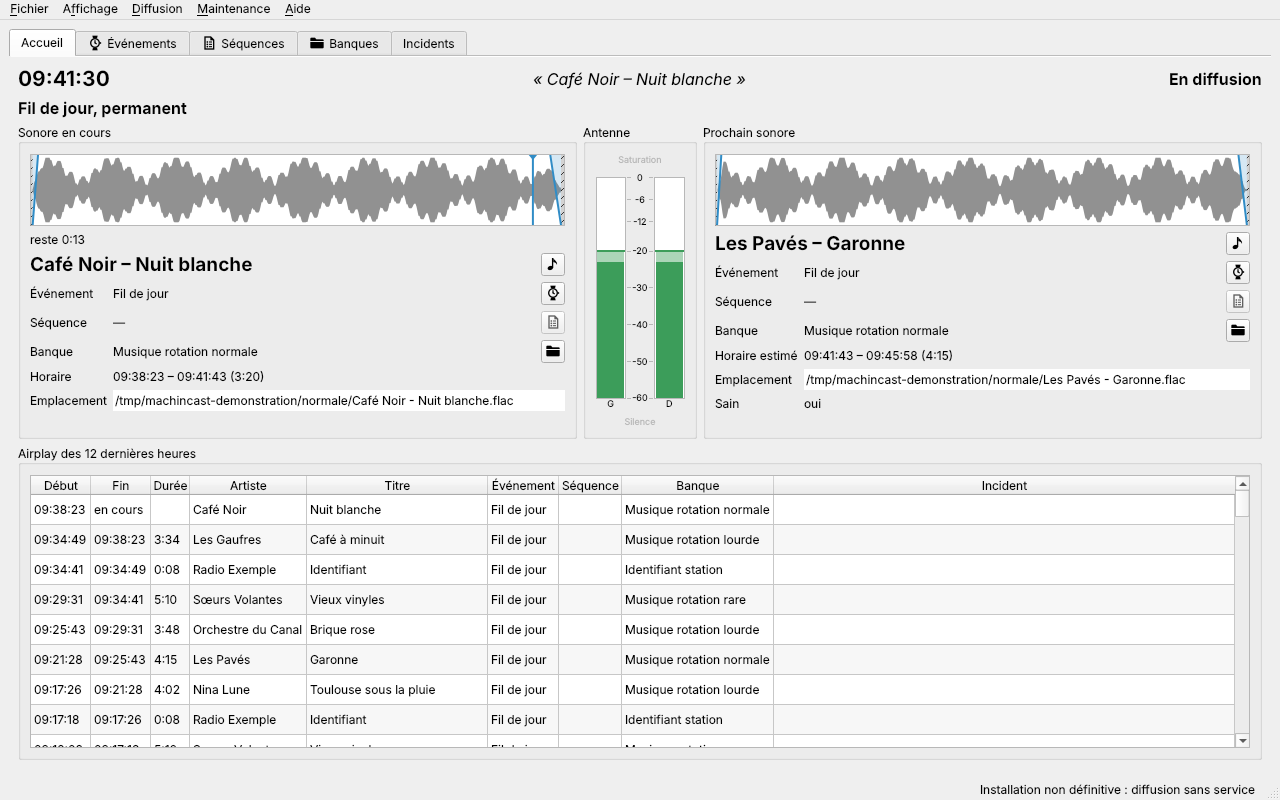
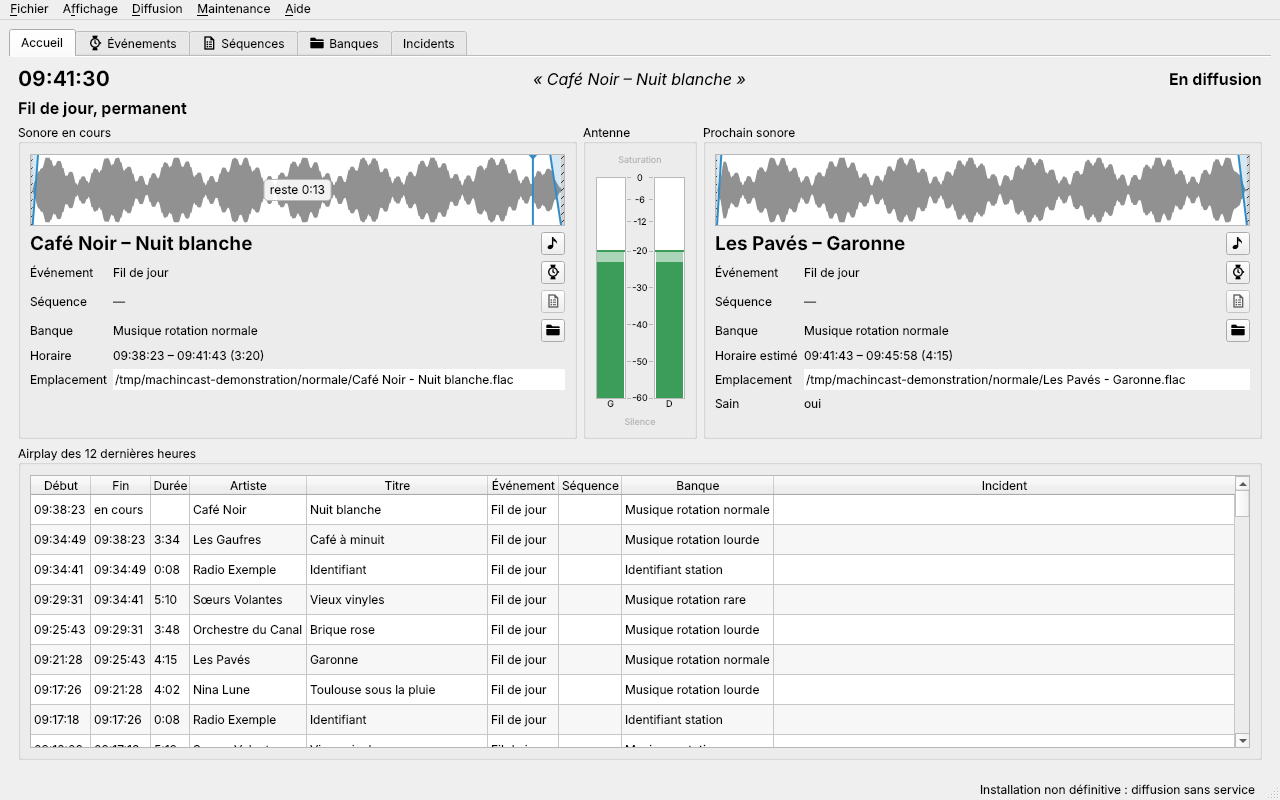
fix(interface): le temps qui reste au milieu de la frise du sonore en cours
https://github.com/dascritch/machincast/issues/230
Accueil : frise du sonore en cours et du sonore suivant, à la place de la barre de progression

Claude-Session: https://claude.ai/code/session_01KaPegkCQoT3k3oMgjXGsiv

Changed region(s): [[0.0312, 0.2812, 0.4062, 0.5312], [0.4062, 0.3125, 0.4375, 0.4688], [0.1875, 0.2188, 0.2812, 0.25]]

diff --git a/src/machincast/interface/frise.py b/src/machincast/interface/frise.py
@@ -58,6 +58,8 @@ PAS_SANS_DUREE = 0.05
 HAUTEUR = 72
 """Points de la frise en hauteur."""
 INDISPONIBLE = "Forme d'onde indisponible :"
+MARGE_DE_LA_LEGENDE = 6
+"""Points autour du texte de la légende, sur son fond."""
 Hachures = Literal["pleines", "pâles", "aucune"]
 
 
@@ -430,6 +432,9 @@ class Frise(QWidget):
 		self.forme: FormeDOnde | None = None
 		self.tete: float | None = None
 		"""La tête de lecture, en secondes du fichier ; None : pas de lecture."""
+		self.legende = ""
+		"""Un texte écrit au milieu de la frise, sur un fond qui le garde lisible : le temps qui reste au sonore en
+		cours, sur l'accueil (https://github.com/dascritch/machincast/issues/230) ; vide : aucun."""
 		self._glisse = False
 		self.setMinimumHeight(HAUTEUR)
 		self.setSizePolicy(QSizePolicy.Policy.Expanding, QSizePolicy.Policy.Fixed)
@@ -464,6 +469,21 @@ class Frise(QWidget):
 		if position != self.tete:
 			self.tete = position
 			self.update()
+
+	def montrer_la_legende(self, texte: str) -> None:
+		if texte != self.legende:
+			self.legende = texte
+			self.update()
+
+	def fond_de_la_legende(self) -> QRectF | None:
+		"""Le fond de la légende, centré sur la frise : le texte, avec une marge ; None sans légende."""
+		if self.legende == "":
+			return None
+		texte = self.fontMetrics().boundingRect(self.legende)
+		largeur = min(float(self.width() - 2), texte.width() + 2.0 * MARGE_DE_LA_LEGENDE)
+		hauteur = min(float(self.height() - 2), texte.height() + float(MARGE_DE_LA_LEGENDE))
+		centre = QRectF(self.rect()).center()
+		return QRectF(centre.x() - largeur / 2, centre.y() - hauteur / 2, largeur, hauteur)
 
 	def remarque(self) -> str:
 		"""Ce que la frise dit en clair : « Forme d'onde indisponible : … », ou rien."""
@@ -566,9 +586,22 @@ class Frise(QWidget):
 			self._dessiner_les_fondus(peintre, palette.color(groupe, QPalette.ColorRole.Highlight))
 		self._dessiner_la_tete(peintre, palette.color(groupe, QPalette.ColorRole.Highlight))
 		remarque = self.remarque()
+		fond = self.fond_de_la_legende()
 		if remarque != "":
+			# Sous la légende, s'il y en a une : la remarque prend le bas de la frise.
+			place = QRectF(cadre)
+			if fond is not None:
+				place.setTop(fond.bottom())
 			peintre.setPen(palette.color(groupe, QPalette.ColorRole.Text))
-			peintre.drawText(cadre, Qt.AlignmentFlag.AlignCenter | Qt.TextFlag.TextWordWrap, remarque)
+			peintre.drawText(place, Qt.AlignmentFlag.AlignCenter | Qt.TextFlag.TextWordWrap, remarque)
+		if fond is not None:
+			voile = QColor(palette.color(groupe, QPalette.ColorRole.Base))
+			voile.setAlpha(225)
+			peintre.setPen(QPen(palette.color(groupe, QPalette.ColorRole.Mid), 1))
+			peintre.setBrush(voile)
+			peintre.drawRoundedRect(fond, 4, 4)
+			peintre.setPen(palette.color(groupe, QPalette.ColorRole.Text))
+			peintre.drawText(fond, Qt.AlignmentFlag.AlignCenter, self.legende)
 		peintre.setPen(QPen(palette.color(groupe, QPalette.ColorRole.Mid), 1))
 		peintre.setBrush(Qt.BrushStyle.NoBrush)
 		peintre.drawRect(cadre)

diff --git a/tests/test_ecran_par_defaut.py b/tests/test_ecran_par_defaut.py
@@ -798,7 +798,7 @@ def progression(contexte: Contexte, qtbot: QtBot, bientot: str | None, texte: st
 	def montre() -> str:
 		if ouvert.ui.en_cours_progression.isVisibleTo(ouvert):
 			return ouvert.ui.en_cours_progression.text()
-		return ouvert.ui.en_cours_reste.text()
+		return ouvert.frise_en_cours.legende
 
 	if bientot:
 		attendre(qtbot, lambda: montre() == texte)
@@ -1158,11 +1158,15 @@ def frises_en_tete(contexte: Contexte, qtbot: QtBot) -> None:
 	assert _haut(contexte, prochain) + prochain.height() <= _haut(contexte, ouvert.ui.prochain_titre)
 
 
-@then("le temps qui reste au sonore en cours est entre sa frise et son titre")
-def reste_sous_la_frise(contexte: Contexte) -> None:
+@then("le temps qui reste au sonore en cours est écrit au milieu de sa frise, sans autre ligne sous elle")
+def reste_dans_la_frise(contexte: Contexte) -> None:
 	ouvert = ecran(contexte)
-	reste = _haut(contexte, ouvert.ui.en_cours_reste)
-	assert _haut(contexte, ouvert.frise_en_cours) < reste < _haut(contexte, ouvert.ui.en_cours_titre)
+	frise = ouvert.frise_en_cours
+	assert frise.legende.startswith("reste "), frise.legende
+	assert frise.fond_de_la_legende() is not None
+	assert not hasattr(ouvert.ui, "en_cours_reste")
+	espace = ouvert.ui.disposition_en_cours.spacing()
+	assert _haut(contexte, frise) + frise.height() + espace >= _haut(contexte, ouvert.ui.en_cours_titre) - 1
 
 
 @when("la colonne de l'antenne est plus haute qu'il ne lui faut")

diff --git a/tests/test_frise.py b/tests/test_frise.py
@@ -10,7 +10,7 @@ from datetime import timedelta
 from pathlib import Path
 
 import pytest
-from PySide6.QtCore import QPoint, Qt
+from PySide6.QtCore import QPoint, QRectF, Qt
 from PySide6.QtWidgets import QWidget
 from pytest_bdd import given, parsers, scenarios, then, when
 from pytestqt.qtbot import QtBot
@@ -337,3 +337,23 @@ def pareil(essai: Essai) -> None:
 	frise.setEnabled(False)
 	inactive = frise.grab().toImage()
 	assert active == inactive
+
+
+@when(parsers.parse("la frise a pour légende « {texte} »"))
+def legende(essai: Essai, texte: str) -> None:
+	essai.la_frise().montrer_la_legende(texte)
+
+
+@then("la légende de la frise est centrée, sur un fond qui l'entoure")
+def legende_centree(essai: Essai) -> None:
+	"""Calculée à part du dessin (https://github.com/dascritch/machincast/issues/230) : le fond, centré sur la frise,
+	contient le texte, et tient dans la frise."""
+	frise = essai.la_frise()
+	fond = frise.fond_de_la_legende()
+	assert fond is not None
+	centre = QRectF(frise.rect()).center()
+	assert abs(fond.center().x() - centre.x()) <= 1, (fond, centre)
+	assert abs(fond.center().y() - centre.y()) <= 1, (fond, centre)
+	texte = frise.fontMetrics().boundingRect(frise.legende)
+	assert (fond.width() > texte.width()) and (fond.height() > texte.height()), (fond, texte)
+	assert QRectF(frise.rect()).contains(fond), (fond, frise.rect())

diff --git a/src/machincast/interface/ecran_par_defaut.py b/src/machincast/interface/ecran_par_defaut.py
@@ -243,17 +243,20 @@ class EcranParDefaut(QWidget):
 
 	def _afficher_progression(self, sonore: SonoreAffiche | None) -> None:
 		"""Le temps qui reste au sonore en cours, plutôt qu'un pourcentage : sur la barre de progression d'un stream,
-		sous la frise d'un fichier, qui la remplace (https://github.com/dascritch/machincast/issues/230)."""
+		au milieu de la frise d'un fichier, qui la remplace (https://github.com/dascritch/machincast/issues/230)."""
 		texte, valeur = _avancement(sonore)
 		self.avancement_en_cours = valeur
 		fichier = (sonore is not None) and (not sonore.stream)
 		barre = self.ui.en_cours_progression
 		barre.setVisible(not fichier)
-		self.ui.en_cours_reste.setVisible(fichier)
 		barre.setValue(valeur)
 		# Texte composé ici : les codes de format de Qt s'écrivent avec la notation %, que refuse socle.feature.
 		barre.setFormat(texte)
-		self.ui.en_cours_reste.setText(texte)
+		# Pour un fichier, au milieu de sa frise ; vide pour un stream, qui garde sa barre.
+		legende = ""
+		if fichier:
+			legende = texte
+		self.frise_en_cours.montrer_la_legende(legende)
 		self._montrer_la_frise(self.frise_en_cours, sonore)
 
 	# ─── Frises (https://github.com/dascritch/machincast/issues/230) ───

diff --git a/src/machincast/interface/ui/ecran_par_defaut.py b/src/machincast/interface/ui/ecran_par_defaut.py
@@ -91,12 +91,6 @@ class Ui_EcranParDefaut(object):
 
         self.disposition_en_cours.addWidget(self.place_frise_en_cours)
 
-        self.en_cours_reste = QLabel(self.cadre_en_cours)
-        self.en_cours_reste.setObjectName(u"en_cours_reste")
-        self.en_cours_reste.setTextInteractionFlags(Qt.TextInteractionFlag.TextSelectableByMouse)
-
-        self.disposition_en_cours.addWidget(self.en_cours_reste)
-
         self.en_cours_progression = QProgressBar(self.cadre_en_cours)
         self.en_cours_progression.setObjectName(u"en_cours_progression")
         self.en_cours_progression.setMaximum(100)
@@ -473,7 +467,6 @@ class Ui_EcranParDefaut(object):
 #if QT_CONFIG(tooltip)
         self.place_frise_en_cours.setToolTip(QCoreApplication.translate("EcranParDefaut", u"Forme d'onde, blancs et fondus du sonore en cours, tels que la diffusion le joue", None))
 #endif // QT_CONFIG(tooltip)
-        self.en_cours_reste.setText(QCoreApplication.translate("EcranParDefaut", u"\u2014", None))
         self.en_cours_progression.setFormat(QCoreApplication.translate("EcranParDefaut", u"\u2014", None))
         self.en_cours_titre.setText(QCoreApplication.translate("EcranParDefaut", u"\u2014", None))
 #if QT_CONFIG(tooltip)

diff --git a/doc/spec.md b/doc/spec.md
@@ -577,8 +577,8 @@ Mise en œuvre ([#23](https://github.com/dascritch/machincast/issues/23), `machi
 - **État, sonore en cours et prochain sonore** : de la socket d'état ([§ 5.4](#54-socket-détat)), par `machincast.interface.etat.ClientEtat`, un `QLocalSocket` dans la boucle d'événements de Qt. Sans socket, ou quand elle se ferme, le binaire lecture est « À l'arrêt » et le client retente la connexion chaque seconde. Un message illisible est signalé sur la sortie d'erreur et ignoré.
 - **Airplay** : lu en base avec le rôle de l'interface (`machincast.interface.airplay.lire_airplay`), à l'ouverture, puis seulement quand la socket annonce un autre sonore en cours (ou aucun) que celui que la table connaît. Jamais en boucle. Artiste et titre toujours affichés : l'interface est privée.
 - **Inconnus** : un stream a sa durée, sa fin et sa progression « inconnue », et son indicateur « sain » « non testé ». Le début estimé du prochain sonore après un stream est « inconnu ».
-- **Disposition** ([#144](https://github.com/dascritch/machincast/issues/144)) : en haut, l'heure seule, à la seconde, la date du jour en infobulle (demandé avec [#191](https://github.com/dascritch/machincast/issues/191)), le texte public du sonore en cours entre guillemets (champ `texte_public` de la socket, `—` sans texte) et l'état ; puis l'événement à l'antenne et ses heures (« de 20:00 à 22:00 », « depuis 19:00 » sans fin, « permanent » pour un fil musical). Le bandeau ne montre que ces valeurs, sans intitulé : l'infobulle de l'état dit « État de Machin lecture », celle de l'événement « Événement à l'antenne » ([#191](https://github.com/dascritch/machincast/issues/191)). Chaque sonore a, une ligne par information, son événement, sa séquence, sa banque (`—` sans), son horaire sur une ligne (« 20:00:00 – 20:03:34 (3:34) », « 20:00:00, durée inconnue » pour un stream) et son emplacement. Le temps qui reste au sonore en cours, sans intitulé, à la seconde entamée : « reste 3:05 », sur la barre de progression d'un stream, sous la frise d'un fichier.
-- **Frises** ([#230](https://github.com/dascritch/machincast/issues/230), `EcranParDefaut._montrer_la_frise`) : un fichier, en cours ou prochain, a la frise de la pré-écoute ([§ 8.3](#83-écran-de-détails-dun-sonore), `machincast.interface.frise`), non interactive (`Frise(interactive=False)`) : aucun clic, glissement ni touche n'y demande de position, et elle ne prend pas le focus. Elle remplace la barre de progression du sonore en cours ; un stream la garde, et n'a pas de frise. Frise, temps qui reste et barre sont en tête de chaque sonore, au-dessus de son titre : les deux frises sont au même niveau, et le contenu des deux sonores se tasse vers le haut. Le VU-mètre de l'antenne prend toute la hauteur de sa colonne que lui laissent ses voyants, celle que les frises donnent à la ligne des sonores. Son plan est celui que la diffusion joue (`lire_le_plan`) : blancs retirés si le sonore ou la banque qui l'a fourni (`banque_id` de la socket) active la détection, crossfades selon les règles de cette banque, puis les crossfades par défaut des préférences, comme `machincast.lecture.diffusion.crossfade` ; l'infobulle d'un crossfade qui ne vient pas du sonore dit d'où il vient (« imposé par la banque », « de la banque », « défaut »). Il se lit une fois par sonore et par banque, pas à chaque état publié ; une base injoignable laisse la frise sans plan, avec sa forme d'onde. La tête de lecture du sonore en cours suit `position`, comptée depuis le début détecté d'un sonore rogné ([§ 5.1](#51-lecture-audio)) ; celle du prochain n'en a pas. La forme d'onde se calcule en tâche de fond, une fois par sonore et par fichier : celle du prochain sonore sert encore quand il passe à l'antenne ; un minuteur de 100 ms la relève tant qu'un calcul est en cours, et seules restent celles des deux sonores montrés. Le fichier est celui de l'`emplacement` de la socket : un fichier introuvable depuis le poste de l'interface le dit sur la frise.
+- **Disposition** ([#144](https://github.com/dascritch/machincast/issues/144)) : en haut, l'heure seule, à la seconde, la date du jour en infobulle (demandé avec [#191](https://github.com/dascritch/machincast/issues/191)), le texte public du sonore en cours entre guillemets (champ `texte_public` de la socket, `—` sans texte) et l'état ; puis l'événement à l'antenne et ses heures (« de 20:00 à 22:00 », « depuis 19:00 » sans fin, « permanent » pour un fil musical). Le bandeau ne montre que ces valeurs, sans intitulé : l'infobulle de l'état dit « État de Machin lecture », celle de l'événement « Événement à l'antenne » ([#191](https://github.com/dascritch/machincast/issues/191)). Chaque sonore a, une ligne par information, son événement, sa séquence, sa banque (`—` sans), son horaire sur une ligne (« 20:00:00 – 20:03:34 (3:34) », « 20:00:00, durée inconnue » pour un stream) et son emplacement. Le temps qui reste au sonore en cours, sans intitulé, à la seconde entamée : « reste 3:05 », sur la barre de progression d'un stream, au milieu de la frise d'un fichier, sur un fond qui le garde lisible (`Frise.legende`, `Frise.fond_de_la_legende`).
+- **Frises** ([#230](https://github.com/dascritch/machincast/issues/230), `EcranParDefaut._montrer_la_frise`) : un fichier, en cours ou prochain, a la frise de la pré-écoute ([§ 8.3](#83-écran-de-détails-dun-sonore), `machincast.interface.frise`), non interactive (`Frise(interactive=False)`) : aucun clic, glissement ni touche n'y demande de position, et elle ne prend pas le focus. Elle remplace la barre de progression du sonore en cours ; un stream la garde, et n'a pas de frise. Frise et barre sont en tête de chaque sonore, au-dessus de son titre : les deux frises sont au même niveau, et le contenu des deux sonores se tasse vers le haut. Le VU-mètre de l'antenne prend toute la hauteur de sa colonne que lui laissent ses voyants, celle que les frises donnent à la ligne des sonores. Son plan est celui que la diffusion joue (`lire_le_plan`) : blancs retirés si le sonore ou la banque qui l'a fourni (`banque_id` de la socket) active la détection, crossfades selon les règles de cette banque, puis les crossfades par défaut des préférences, comme `machincast.lecture.diffusion.crossfade` ; l'infobulle d'un crossfade qui ne vient pas du sonore dit d'où il vient (« imposé par la banque », « de la banque », « défaut »). Il se lit une fois par sonore et par banque, pas à chaque état publié ; une base injoignable laisse la frise sans plan, avec sa forme d'onde. La tête de lecture du sonore en cours suit `position`, comptée depuis le début détecté d'un sonore rogné ([§ 5.1](#51-lecture-audio)) ; celle du prochain n'en a pas. La forme d'onde se calcule en tâche de fond, une fois par sonore et par fichier : celle du prochain sonore sert encore quand il passe à l'antenne ; un minuteur de 100 ms la relève tant qu'un calcul est en cours, et seules restent celles des deux sonores montrés. Le fichier est celui de l'`emplacement` de la socket : un fichier introuvable depuis le poste de l'interface le dit sur la frise.
 - **Coupure** ([#169](https://github.com/dascritch/machincast/issues/169)) : un sonore qu'un événement coupera (champ `coupe_par` de la socket) a pour horaire « 20:00:00 – 20:02:00 (coupé par « Journal », sur 3:34) », ou « … (coupé par « Flash », durée inconnue) » pour un stream ; sa barre se remplit de son début à la coupure et dit « reste 1:30 avant « Journal » ». Le prochain sonore annoncé est celui de l'événement, à l'instant de la coupure.
 - **Fiches** ([#144](https://github.com/dascritch/machincast/issues/144)) : un bouton à droite du titre de chaque sonore, et un à droite de son événement, de sa séquence et de sa banque, émettent `EcranParDefaut.ouverte(genre, identifiant, nom)`, que la fenêtre traite comme une ligne de liste ouverte ; ils sont inactifs sans sonore, et ceux de l'événement, de la séquence et de la banque sans leur identifiant dans l'état publié (`evenement_id`, `sequence_id`, `banque_id`). Dans l'airplay, un double-clic sur l'artiste ou le titre ouvre la fiche du sonore, sur l'événement, la séquence ou la banque celle de l'élément ; ailleurs, ou sur un élément supprimé depuis, il ne fait rien. La colonne « Incident » ne dit `oui` que pour un passage qui en a eu un.
 - **VU-mètre de l'antenne** ([#24](https://github.com/dascritch/machincast/issues/24), `machincast.interface.moniteur`, `machincast.interface.vumetre`) : une colonne verticale « Antenne », entre le sonore en cours et le prochain sonore. Par canal, le VU, niveau moyen (RMS), en barre pleine, de -60 à 0 dBFS, vert, orange au-delà de -12 dB, rouge au-delà de -3 dB ; par-dessus, le bargraph de crête, plus clair, et un repère qui garde la plus haute crête 2 secondes. Les canaux gauche et droit, nommés « G » et « D » dessous, sont séparés par l'échelle en dB, graduée de 0 en haut à -60 en bas (0, -6, -12, -20, -30, -40, -50, -60) ; un nombre qui chevaucherait un nombre plus important n'est pas écrit (0 et -60 d'abord, puis -20, -6, -12, -40, -30, -50). Un son qui n'est pas stéréo a son échelle à droite. Deux voyants, écrits en petit : au-dessus du VU-mètre, « Saturation », allumé dès qu'une crête atteint -1 dBFS, et pendant 3 secondes ; dessous, « Silence », allumé après 5 secondes à -50 dBFS ou moins sur tous les canaux. Le voyant « Saturation » se cache par les préférences (`interface.saturation`, [#191](https://github.com/dascritch/machincast/issues/191)) ; le VU-mètre montre toujours les crêtes, et « Silence » reste affiché.

diff --git a/doc/utilisateur/prise-en-main.md b/doc/utilisateur/prise-en-main.md
@@ -60,7 +60,7 @@ L'onglet **Accueil** montre en un coup d'œil ce qui passe et ce qui va passer.
 
 - **En haut** : l'heure du poste, à la seconde (la date est dans son infobulle) ; le **texte public** du sonore en cours, tel que l'affiche la page publique de la radio (`—` sans texte, par exemple pour un sonore masqué) ; et l'état de la diffusion : `En diffusion`, `En silence` (rien à diffuser) ou `À l'arrêt`.
 - **Événement à l'antenne** : son nom et ses heures, « de 20:00 à 22:00 », « depuis 19:00 » pour une occurrence sans fin, ou « permanent » pour un fil musical.
-- **Sonore en cours**, à gauche : l'artiste et le titre, l'événement qui le joue, la séquence et la banque d'où il vient (`—` s'il n'en vient pas), l'horaire (début, fin prévue et durée, « 20:00:00 – 20:03:34 (3:34) »), l'emplacement du fichier ou l'adresse du stream. Pour un fichier, sa **frise** ([#230](https://github.com/dascritch/machincast/issues/230)), en tête, au-dessus du titre, à la hauteur de celle du prochain sonore : la forme d'onde, ses blancs hachurés et ses fondus, tels que l'antenne les joue, règles de sa banque comprises, et la tête de lecture ; dessous, le temps qui reste, « reste 3:05 ». C'est la frise de la [pré-écoute](sonores.md#frise-dun-fichier), qui ne fait ici que se regarder : un clic n'y déplace rien. Un stream a, à la place, une barre qui dit le temps qui reste, s'il est connu.
+- **Sonore en cours**, à gauche : l'artiste et le titre, l'événement qui le joue, la séquence et la banque d'où il vient (`—` s'il n'en vient pas), l'horaire (début, fin prévue et durée, « 20:00:00 – 20:03:34 (3:34) »), l'emplacement du fichier ou l'adresse du stream. Pour un fichier, sa **frise** ([#230](https://github.com/dascritch/machincast/issues/230)), en tête, au-dessus du titre, à la hauteur de celle du prochain sonore : la forme d'onde, ses blancs hachurés et ses fondus, tels que l'antenne les joue, règles de sa banque comprises, et la tête de lecture ; au milieu, le temps qui reste, « reste 3:05 ». C'est la frise de la [pré-écoute](sonores.md#frise-dun-fichier), qui ne fait ici que se regarder : un clic n'y déplace rien. Un stream a, à la place, une barre qui dit le temps qui reste, s'il est connu.
 - **Prochain sonore**, à droite : les mêmes informations, avec l'horaire prévu et, pour un fichier, sa frise sans tête de lecture, et **Sain** : `oui` si son fichier est présent, actif, lisible, et que sa dernière lecture s'est passée sans incident ; `non` sinon. Le prochain sonore annoncé est bien celui qui passera, même tiré au hasard : il ne change que si un événement coupe la diffusion, si son événement est fini, ou s'il est désactivé ou expiré entre-temps.
 - **Coupure annoncée** : quand un événement commencera pendant le sonore en cours, il le coupera net. L'horaire finit alors à la coupure et nomme l'événement, « 20:00:00 – 20:02:00 (coupé par « Journal », sur 3:34) », le temps qui reste dit « reste 1:30 avant « Journal » », et le prochain sonore est celui que jouera cet événement.
 - **Stream** : son horaire est « 20:00:00, durée inconnue », et il n'est pas testé à l'avance : `non testé`.
